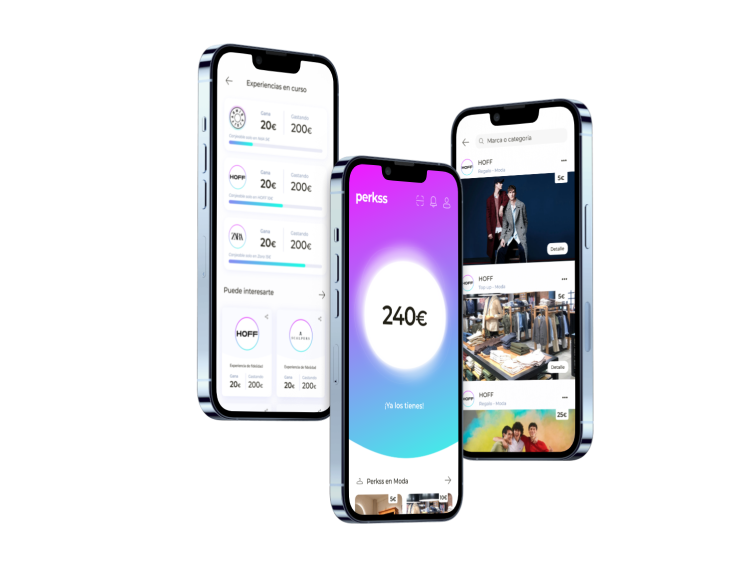
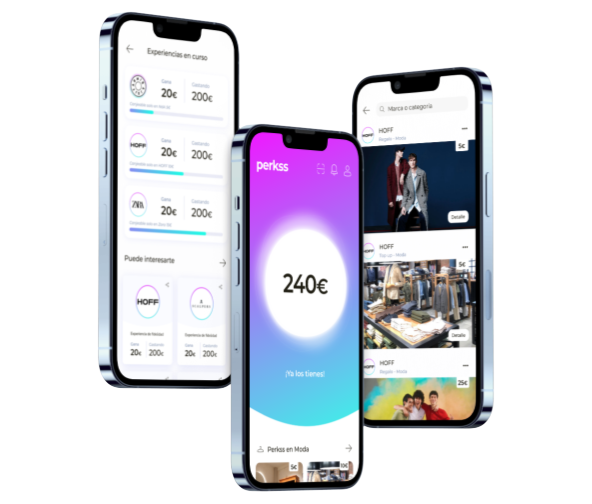
fixes

Changed region(s): [[0.152, 0.0, 0.8514, 0.9821]]

diff --git a/src/App.css b/src/App.css
@@ -2402,7 +2402,7 @@ section#services{
 }
 
 #faqs{
-  background-image: url(images/img/triangle-bg.svg);
+  background-color: #FAFBFF;
   background-size: cover;
   padding-top: 180px;
 }
@@ -2581,8 +2581,9 @@ div.accordion-content {
 }
 
 div.active { 
+  max-height: fit-content !important;
   margin: 0;
-  padding-top: 26px;
+  padding-top: 15px;
   font-size: 16px;
 }
 
@@ -2857,17 +2858,18 @@ section.antes.home .new-slide--container {
 .adquisition-imgs-container {
   position: relative;
   max-width: 500px;
+  min-height: 290px;
 }
 
 .secondary-iphone--img {
   position: absolute;
-  right: -10%;
-  top: 2em;
-  height: 100%;
+  right: -5%;
+  top: 1.5em;
+  height: 80%;
 }
 
 .adquisition-css-class {
-  max-width: 100%;
+  max-width: 90%;
 }
 
 #services.services.gain-eur {
@@ -3045,8 +3047,6 @@ section.antes.home .new-slide--container {
   #hero.users .download-center, 
   #hero.users .download-center-mobile,
   #hero.home img.heart-image--home,
-  .testimonials-slider .swiper-button-prev,
-  .testimonials-slider .swiper-button-next,
   .cambio-desktop,
   .footer-links,
   .arrow-semifooter--1, 
@@ -3282,7 +3282,7 @@ section.antes.home .new-slide--container {
   }
 
   .iphone-img--slider {
-    margin: 75px auto 1em;
+    margin: 1em auto;
   }
 
   h2.text-white.mt-3 {
@@ -3462,8 +3462,6 @@ section.antes.home .new-slide--container {
   .right-secondary--image--mobile,
   .left-banner--img--desktop,
   .footer-links,
-  .swiper-button-next,
-  .swiper-button-prev,
   .desktop-services,
   .hb-content,
   #hero.home .heart-image--home,
@@ -3565,9 +3563,13 @@ section.antes.home .new-slide--container {
     width: 203px;
     padding: 1.5px 1px 1px 1.5px;
     background: linear-gradient(235deg, #EB00FF 0.35%, #1BFFE4 110.47%);
-    bottom: 3vh;
+    bottom: 13vh;
     left: calc(50vw - 100px);
-    z-index: 999;
+    z-index: 1000;
+  }
+
+  #semifooter .download-btn--box {
+    bottom: 7vh !important;
   }
   
   .mobile-button--semifooter {
@@ -3588,6 +3590,40 @@ section.antes.home .new-slide--container {
 
   .new-slide--container.adquisition {
     max-width: 80vw;
+  }
+
+  #como.new-como .img-fluid {
+    max-width: 85vw;
+  }
+
+  section.antes.home .new-slide--container {
+    margin-top: 1em;
+  }
+
+  .cambio .sec-heading.text-center.mb-5 {
+    display: flex;
+    flex-direction: column;
+    align-items: center;
+  }
+
+  .cambio .sec-heading h2 {
+    max-width: 85%;
+  }
+
+  #testimonials.antes.home  .tab--0{
+    min-height: 528px;
+  }
+
+  .img-fluid.lefty {
+    position: relative;
+    left: -0.6em;
+  }
+
+  .testimonials-slider .swiper-button-prev {
+    left: 5vw;
+  }
+  .testimonials-slider .swiper-button-next {
+    right: 5vw;
   }
 
 }
@@ -3735,8 +3771,6 @@ section.antes.home .new-slide--container {
   .right-secondary--image--mobile,
   .left-banner--img--mobile,
   .footer-links,
-  .swiper-button-next,
-  .swiper-button-prev,
   .desktop-services,
   .hb-content,
   .btn-get-started.desktop,
@@ -3773,6 +3807,7 @@ section.antes.home .new-slide--container {
   .pre-footer h2 {
     font-size: 35px;
     font-weight: bold;
+    max-width: 60vw;
 }
 
   .pre-footer-column {
@@ -3803,6 +3838,13 @@ section.antes.home .new-slide--container {
     bottom: -4.2em;
     left: -2em;
     transform: rotate(352deg);
+  }
+
+  .testimonials-slider .swiper-button-prev {
+    left: 5vw;
+  }
+  .testimonials-slider .swiper-button-next {
+    right: 5vw;
   }
 }
 
@@ -3951,8 +3993,6 @@ section.antes.home .new-slide--container {
   .right-secondary--image--mobile,
   .left-banner--img--mobile,
   .footer-links,
-  .swiper-button-next,
-  .swiper-button-prev,
   .desktop-services,
   .hb-content,
   .btn-get-started.desktop,
@@ -4019,13 +4059,28 @@ section.antes.home .new-slide--container {
     left: -2em;
     transform: rotate(352deg);
   }
+
+  .testimonials-slider .swiper-button-prev {
+    left: 5vw;
+  }
+  .testimonials-slider .swiper-button-next {
+    right: 5vw;
+  }
 }
 
-@media only screen and (max-width: 1023px) {
-  .swiper-button-prev, .swiper-button-next {
-    display: none;
+@media only screen and (min-width: 1024px) and (min-height: 1365px) {
+
+  .secondary-banner--component {
+    height: 55vh !important;
   }
 
+  .left-banner--img--desktop {
+    max-height: 612px;
+  }
+
+  .right-secondary--image--desktop {
+    max-height: 540px;
+  }
 }
 
 @media only screen and (min-width: 1024px) and (max-width: 1150px) {
@@ -4448,11 +4503,11 @@ section.antes.home .new-slide--container {
   }
   
   #hero.home img.bannerSI {
-    height: 100vh;
+    height: 85vh;
   }
 
   #hero.home img.anotherBannerSI {
-    height: 100vh;
+    height: 85vh;
   }
 
 }
@@ -4497,7 +4552,7 @@ section.antes.home .new-slide--container {
   }
 
   .secondary-banner--component {
-    height: 85vh;
+    height: 100vh;
   }
 
   .right-secondary--image--desktop,
@@ -4543,6 +4598,7 @@ section.antes.home .new-slide--container {
 
   .pre-footer-column {
     align-items: flex-start;
+    max-width: 500px;
   }
 
   #como.como .img-fluid {
@@ -4618,23 +4674,23 @@ section.antes.home .new-slide--container {
 
 @media only screen and (min-width: 1366px) and (max-width: 1600px) {
   .left-banner--img--desktop {
-    height: 82.5vh !important;
+    height: 92.5vh !important;
   }
 
   .right-secondary--image--desktop {
-    height: 70vh !important;
+    height: 80vh !important;
   }
 
   .secondary-banner--content-box  {
     position: absolute;
-    bottom: 12.5vh;
-    left: calc(50vw - 100px);
+    bottom: 16.5vh;
+    left: calc(50vw - 115px);
   }
 
   .banner-floating--img {
-    width: 16vw;
-    max-width: 250px;
-    left: 28vw;
+    width: 20vw;
+    max-width: 260px;
+    left: 29vw;
   }
 
   .decor-plane {
@@ -4650,20 +4706,20 @@ section.antes.home .new-slide--container {
 
 @media only screen and (min-width: 1601px) {
   .left-banner--img--desktop {
-    height: 82.5vh !important;
+    height: 87.5vh !important;
   }
 
   .secondary-banner--content {
-    font-size: 54px;
+    font-size: 55px;
   }
 
   .right-secondary--image--desktop {
-    height: 70vh !important;
+    height: 77vh !important;
   }
 
   .secondary-banner--content-box  {
     position: absolute;
-    bottom: 17vh;
+    bottom: 25vh;
     left: calc(45vw - ((1920px - 100vw)*0.1) - ((100vw - 1600px)*0.2));
   }
 

diff --git a/src/components/testimonials.js b/src/components/testimonials.js
@@ -14,7 +14,7 @@ function Tabs() {
   };
 
   return (
-    <div>
+    <div style={{backgroundColor: '#FAFBFF'}}>
       <Testimonials 
       object={window.location.pathname === '/' ? UsersSlider : HomeSlider } 
       activeTab={activeTab} 
@@ -57,7 +57,7 @@ const Testimonials = ({ activeTab, handleTabClick, object, navbuttons }) => {
             </> : ""
           }
 
-          <div className="tab-content">
+          <div className="tab-content tab--0">
             {activeTab === 0 && 
             <div className="tab-content" id="pills-tabContent">
                 <div className="tab-pane fade show active" id="pills-home" role="tabpanel" aria-labelledby="pills-home-tab">
@@ -142,7 +142,7 @@ const Testimonials = ({ activeTab, handleTabClick, object, navbuttons }) => {
                 </div>
             </div>}
             {activeTab === 1 &&
-                <div className="tab-content" id="pills-tabContent">
+                <div className="tab-content tab--1" id="pills-tabContent">
                     <div className="tab-pane fade show active" id="pills-home" role="tabpanel" aria-labelledby="pills-home-tab">
                         <div className="testimonials-slider-two swiper">
                             <Swiper

diff --git a/src/components/footer.js b/src/components/footer.js
@@ -28,7 +28,7 @@ const Footer = () => {
                     <h4>Empresa</h4>
                     <ul>
                         <li> <a href="/">Home</a></li>
-                        <li> <Link to="/usuarios">marcas</Link></li>
+                        <li> <Link to="/usuarios">Marcas</Link></li>
                         <li> <a href="https://medium.com/@eduardo_30817/unlocking-the-power-of-brand-loyalty-with-web3-f07300531e49">Blog</a></li>
                     </ul>
                 </div>
@@ -45,7 +45,7 @@ const Footer = () => {
                 <div className="col-lg-2 offset-lg-1 col-md-6 footer-links">
                     <h4>Contacto</h4>
                     <ul>
-                        <li> <a href="mailto:Support@perkss.io">Support@perkss.io</a></li>
+                        <li> <a href="mailto:Support@perkss.io">support@perkss.io</a></li>
                         <li> <a href="tel:+34656961823">+34 656 96 18 23</a></li>
                     </ul>
                 </div>  

diff --git a/src/components/userfirst.js b/src/components/userfirst.js
@@ -10,7 +10,7 @@ const Userfirst = () => {
                     <div className="row align-items-center">
                     <div className="col-lg-6 text-end pull-left order-lg-1">
                         <img src={svg} alt='svg' className='perkss-special new-perkss--place'></img>
-                        <img src={images.iphone} className="img-fluid" alt="Perkss app" loading="lazy"></img>
+                        <img src={images.iphone} className="img-fluid lefty" alt="Perkss app" loading="lazy"></img>
                         </div>
                         <div className="col-lg-6 pull-right order-lg-2">
                             <div className="sec-heading">

diff --git a/src/components/semifooter.js b/src/components/semifooter.js
@@ -6,8 +6,8 @@ const Semifooter = ({appButtons}) => {
         <>
             <section id="semifooter" className="pre-footer scroll-reveal pre-footer-banner">
                 <div className="pre-footer-column">
-                    <h5>Redefine las reglas</h5>
-                    <h2>¿Estás listo para transformar<br></br> la fidelización de tus clientes?</h2>
+                    <h5> Estamos para ti, shopper del futuro</h5>
+                    <h2>Conecta, apoya y gana en tus marcas favoritas. </h2>
                     <div className="download-center">
                     {
                     appButtons ? <>

diff --git a/src/components/cambio.js b/src/components/cambio.js
@@ -13,7 +13,7 @@ const Cambio = () => {
                     <div className="boxes">
                     <div className="sec-heading text-center mb-5">
                         <h5>Un cambio de paradigma</h5>
-                        <h2>Una plataforma diferente para resolver <br></br> los verdaderos problemas de los retailers</h2>
+                        <h2>Una plataforma diferente para resolver los verdaderos problemas de los retailers</h2>
                     </div>
 
                     <div className="row mt-5 cambio-desktop">
